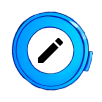
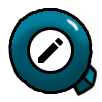
assets update

diff --git a/listings/index.html b/listings/index.html
@@ -32,7 +32,7 @@
   <div class="container pt-4 ">
     <div class="col-md-12 bg-card text-center mb-4 rounded-4">
       <h1 class="text-center text-white fw-bold text-stroke">Browser our auctions📜</h1>
-      <p class=" text-center mx-4 fw-bold  ">"Welcome to Auction-Hub! Explore and bid on a diverse range of items in our
+      <p class=" text-center mx-4 fw-bold text-white ">"Welcome to Auction-Hub! Explore and bid on a diverse range of items in our
         active auctions. Discover unique treasures, exciting gadgets, and much more. Browse through our collection and
         find the perfect item to elevate your experience. Join the bidding excitement and secure your favorite items
         today!"</p>
@@ -52,23 +52,23 @@
       <!-- Create Auction Form -->
       <form id="createListingForm">
         <div class="mb-3">
-          <label for="listingTitle" class="form-label">Title</label>
+          <label for="listingTitle" class="form-label text-white fw-bold">Title</label>
           <input type="text" class="form-control" id="listingTitle" required>
         </div>
         <div class="mb-3">
-          <label for="listingDescription" class="form-label">Description</label>
+          <label for="listingDescription" class="form-label text-white fw-bold">Description</label>
           <textarea class="form-control" id="listingDescription"></textarea>
         </div>
         <div class="mb-3">
-          <label for="listingTags" class="form-label">Tags</label>
+          <label for="listingTags" class="form-label text-white fw-bold">Tags</label>
           <input type="text" class="form-control" id="listingTags">
         </div>
         <div class="mb-3">
-          <label for="listingMediaUrl" class="form-label">Media URL</label>
+          <label for="listingMediaUrl" class="form-label text-white fw-bold">Media URL</label>
           <input type="text" class="form-control" id="listingMediaUrl" required>
         </div>
         <div class="mb-3">
-          <label for="listingEndsAt" class="form-label">Ends At</label>
+          <label for="listingEndsAt" class="form-label text-white fw-bold">Ends At</label>
           <input type="datetime-local" class="form-control" id="listingEndsAt" required>
         </div>
         <button id="createListingBtn" type="button"

diff --git a/src/js/api/auth/register.js b/src/js/api/auth/register.js
@@ -41,15 +41,17 @@ export function register() {
             alert("User registered successfully!");
             console.log("User profile:", data);
           })
-          .catch((error) => {
-            if (error.status === 400 && error.data && error.data.errors) {
-              const errorMessages = error.data.errors
-                .map((err) => err.message)
-                .join("\n");
-              alert(`Error registering user:\n${errorMessages}`);
-            } else {
-              console.error("Error registering user:", error);
-              alert(`Error registering user: ${error}.`);
+          .catch(error => {
+            let errorMessage = "An unexpected error occurred. Please try again.";
+  
+            if (error.body && error.body.errors && error.body.errors.length > 0) {
+              errorMessage = error.body.errors[0].message;
+            } else if (error.message) {
+              errorMessage = error.message;
+            }
+            const loginErrorDiv = document.getElementById('registerError');
+            if (loginErrorDiv) {
+              loginErrorDiv.textContent = errorMessage;            
             }
           });
       });

diff --git a/index.html b/index.html
@@ -93,6 +93,7 @@
                 <img src="assets/img/register_mascot.png" alt="login" class="img-fluid">
                 <!-- Register Form -->
                 <form id="registerForm">
+                  <div id="registerError" class="text-danger fw-bold"></div>
                   <div class="mb-3">
                     <label for="registerName" class="form-label">Username</label>
                     <input type="text" class="form-control" id="registerName" name="name" placeholder="Username"

diff --git a/src/scss/_variables.scss b/src/scss/_variables.scss
@@ -1,9 +1,13 @@
 @import "../../node_modules/bootstrap/scss/bootstrap";
 
 $heading-color: #000000;
-$auction-primary-color: #00d0ff;
-$primary: #00d0ff;
+$auction-primary-color: #005467;
+$primary: #005467;
 $beta: #00df1e;
 $grey: #646464;
+$background-Primary: #005467;
 
 $text-stroke: -1px -1px 0 #000, 1px -1px 0 #000, -1px 1px 0 #000, 1px 1px 0 #000;
+
+$placeholder1: #00d0ff;
+$placeholder2: #005467;

diff --git a/src/scss/main.scss b/src/scss/main.scss
@@ -89,7 +89,7 @@ p, a {
 }
 
 .custom-shape-divider-bottom-1707191989 .shape-fill {
-  fill: #00D0FF;
+  fill: #005467;
 }
 
 .border-grey {
